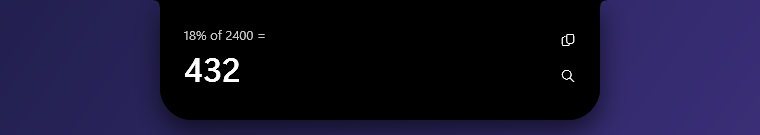
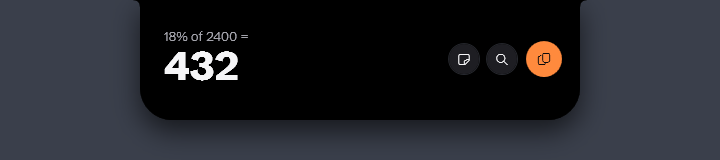
README and screenshots for the current app
Describes the pet's live activities and action circle, the Focus Wall
rail, alarms, Settings, the welcome tour, quiet mode and screen-share
privacy, with new screenshots.

Screenshots use made-up data, through test-pipe-only hooks: a separate
data folder (SHAMMY_DATA_ROOT), a demo song (media-demo) and a demo
place (ambient-weather-at). None of them work without SHAMMY_TEST_PIPE=1.

diff --git a/src/Shammy.App/Playback/MediaService.cs b/src/Shammy.App/Playback/MediaService.cs
@@ -25,7 +25,9 @@ internal sealed class MediaService : IDisposable
 
     public event Action? Changed;
 
-    public bool HasSession => _session is not null && Title.Length > 0;
+    bool _demo;
+
+    public bool HasSession => (_demo || _session is not null) && Title.Length > 0;
     public string Title { get; private set; } = "";
     public string Artist { get; private set; } = "";
     public ImageSource? Art { get; private set; }
@@ -57,8 +59,25 @@ internal sealed class MediaService : IDisposable
         Attach(_manager.GetCurrentSession());
     }
 
+    /// <summary>Test pipe only: a made-up song, so screenshots don't show what's really playing on this PC.</summary>
+    public void ShowDemoForTest(string title, string artist, ImageSource? art)
+    {
+        Attach(null);
+        _demo = true;
+        Title = title;
+        Artist = artist;
+        Art = art;
+        if (art is System.Windows.Media.Imaging.BitmapSource bmp) ArtColor = ArtPalette.Vibrant(bmp);
+        IsPlaying = true;
+        Duration = TimeSpan.FromMinutes(3.5);
+        _position = TimeSpan.FromMinutes(1.2);
+        _positionStamp = DateTimeOffset.Now;
+        Changed?.Invoke();
+    }
+
     void Attach(GlobalSystemMediaTransportControlsSession? session)
     {
+        if (_demo) return;
         if (_session is not null)
         {
             _session.MediaPropertiesChanged -= OnMediaPropertiesChanged;

diff --git a/src/Shammy.App/ShammyHost.cs b/src/Shammy.App/ShammyHost.cs
@@ -742,6 +742,23 @@ internal sealed class ShammyHost : IDisposable
                 return "ok";
             case "fullscreen": _notch.SetFullscreen(arg == "on"); return "ok";
             case "volume": _volume?.Step(arg == "up" ? 1 : arg == "down" ? -1 : 0); return "ok";
+            // "media-demo Title|Artist|cover.png": a made-up song for screenshots; real sessions are ignored until restart.
+            case "media-demo":
+            {
+                var m = arg.Split('|');
+                System.Windows.Media.Imaging.BitmapImage? cover = null;
+                if (m.Length > 2)
+                {
+                    cover = new System.Windows.Media.Imaging.BitmapImage();
+                    cover.BeginInit();
+                    cover.CacheOption = System.Windows.Media.Imaging.BitmapCacheOption.OnLoad;
+                    cover.UriSource = new Uri(m[2]);
+                    cover.EndInit();
+                    cover.Freeze();
+                }
+                _media.ShowDemoForTest(m[0], m.Length > 1 ? m[1] : "", cover);
+                return "ok";
+            }
             case "media":
                 if (arg == "toggle") _media.TogglePlayPause();
                 else if (arg == "next") _media.Next();

diff --git a/src/Shammy.App/Modules/Ambient/WeatherFeature.cs b/src/Shammy.App/Modules/Ambient/WeatherFeature.cs
@@ -174,6 +174,15 @@ internal sealed class WeatherFeature : IDisposable
     }
 
     /// <summary>For the test pipe: refresh now and return a one-line summary.</summary>
+    /// <summary>Test pipe only: "Mumbai|19.07|72.87" sets the place, so screenshots don't show where this PC really is.</summary>
+    public string AtForTest(string arg)
+    {
+        var p = arg.Split('|');
+        var inv = System.Globalization.CultureInfo.InvariantCulture;
+        _data.Location = new GeoLocation(p[0], double.Parse(p[1], inv), double.Parse(p[2], inv), DateTime.UtcNow);
+        return RefreshNowBlocking();
+    }
+
     public string RefreshNowBlocking()
     {
         if (!AmbientNet.IsOnline) return "error: offline";

diff --git a/src/Shammy.App/Modules/Ambient/AmbientModule.cs b/src/Shammy.App/Modules/Ambient/AmbientModule.cs
@@ -52,6 +52,7 @@ internal sealed class AmbientModule : IShammyModule
 
         ctx.AddPipeCommand("ambient-weather", _ => _weather.RefreshNowBlocking());
         ctx.AddPipeCommand("ambient-weather-city", arg => _weather.CityBlocking(arg));
+        ctx.AddPipeCommand("ambient-weather-at", arg => _weather.AtForTest(arg));
         ctx.AddPipeCommand("ambient-ticker-preview", arg => _ticker.PreviewBlocking(arg));
         ctx.AddPipeCommand("ambient-state", _ =>
             $"online={NetworkInterface.GetIsNetworkAvailable()}; weather: {_weather.State}; ticker: {_ticker.State}; pet: {(ctx.Settings.PetEnabled ? "on" : "off")}");

diff --git a/src/Shammy.App/Infrastructure/Paths.cs b/src/Shammy.App/Infrastructure/Paths.cs
@@ -29,6 +29,8 @@ internal static class Paths
     /// </summary>
     static string ResolveRoot()
     {
+        // Test pipe only: a separate data folder, so screenshots and tests never touch (or show) the user's own data.
+        if (CommandServer.IsEnabled && Environment.GetEnvironmentVariable("SHAMMY_DATA_ROOT") is { Length: > 0 } testRoot) return testRoot;
         var root = Path.Combine(Local, "Shammy");
         var old = Path.Combine(Local, "Halo");
         if (Directory.Exists(root) || !Directory.Exists(old) || !LooksLikeOurs(old)) return root;

diff --git a/README.md b/README.md
@@ -23,7 +23,7 @@
 
 Shammy turns the top-centre of your screen into a living notch, like the iPhone's Dynamic Island, made for Windows.
 
-It answers questions with Google AI Mode, Web or Lens right inside the notch, lets you circle anything on screen to search it, and shows your music, timers, calls, downloads and notifications as little live pills. At rest it's Shammy, a little pair of eyes, beside a glance that rotates through what's worth knowing. Rest the pointer on it for a peek; click (or keep resting) and it opens into a rail of cards.
+It answers questions with Google AI Mode, Web or Lens right inside the notch, lets you circle anything on screen to search it, and keeps your music, timers, calls, downloads and notifications in view. Shammy, a little pair of eyes, lives in the notch and changes to match whatever is going on, with a small action button beside the notch when there's something to press. Rest the pointer on it for a peek; click (or keep resting) and it opens into a rail of cards.
 
 It runs on your PC with **no paid AI**:
 - Google does the answering.
@@ -83,7 +83,10 @@ Tap <kbd>Right Alt</kbd> and start typing. Results rank live, keyboard first (<k
 - **Files** straight from the Windows Search index. <kbd>Ctrl</kbd>+<kbd>Enter</kbd> shows the file in its folder. Hidden and developer folders stay out of the way;
 - **Settings, right there:** `brightness` gives a slider, `sound` gives volume, mute and your output devices, `bluetooth` gives an on/off switch, and words like `wifi` or `night light` open the right Settings page;
 - **Music:** `play …` or `… bajao` plays on YouTube Music; pause, next and previous control what's playing;
+- **Your own things:** notes, clipboard items, snippets and every view of the notch;
 - **Google** is always the last row.
+
+With nothing typed, it shows your recent picks and a *Try* row of ideas. Copied text and notes are never suggested on their own.
 
 </td>
 </tr>
@@ -91,7 +94,7 @@ Tap <kbd>Right Alt</kbd> and start typing. Results rank live, keyboard first (<k
 <td valign="top">
 
 ### ⚡ Instant answers
-Sums, unit and currency conversions and time zones never leave your PC: no search, no wait. Exchange rates are free and refreshed daily.
+Sums, unit and currency conversions and time zones never leave your PC: no search, no wait. Exchange rates are free and refreshed daily. Copy an answer with one click, or save it as a note.
 
 </td>
 <td><img src="docs/images/answer.png" alt="Calculator answer"><br><img src="docs/images/convert.png" alt="Unit conversion"></td>
@@ -118,7 +121,7 @@ Other apps' notifications drop out of the notch with a soft ping instead of Wind
 - **click** to open the app;
 - **right-click** to mute that app.
 
-While you share or record your screen, Shammy shows who a notification is from, but not what it says. An ordinary call hides nothing. Muted apps stay out of the Alerts list too.
+While you share your whole screen or record it, Shammy shows who a notification is from, but not what it says. Sharing just a tab or a window hides nothing, because the notch isn't in the picture, and neither does an ordinary call. Muted apps stay out of the Alerts list too.
 
 </td>
 <td><img src="docs/images/notification.png" alt="Notification card"></td>
@@ -127,23 +130,49 @@ While you share or record your screen, Shammy shows who a notification is from, 
 <td valign="top">
 
 ### ⏱ Live activities
-Timers, stopwatches, Pomodoro and focus sessions, meeting mic mute, volume and brightness, charging, Bluetooth, downloads and updates all live in the notch as small pills. When two things happen at once, one splits off into a bubble.
+Shammy stays in the middle of the notch and dresses for the occasion, with the details on either side:
+- **a call:** a headset, the time on the call, and a mic button;
+- **music:** happy eyes, the song, and play/pause;
+- **a timer:** a little stopwatch, the time left, and pause;
+- **recording your screen,** a **download,** **charging** or your **earbuds' battery**.
+
+When there's something to press, a small **action circle** sits beside the notch, so you don't have to open anything. Pomodoro and focus sessions, volume and brightness, Bluetooth and updates live here too.
 
 </td>
-<td><img src="docs/images/timer.png" alt="Timer"><br><img src="docs/images/meeting.png" alt="Meeting mic"><br><img src="docs/images/hud-volume.png" alt="Volume"><br><img src="docs/images/charging.png" alt="Charging"><br><img src="docs/images/bluetooth.png" alt="Bluetooth"><br><img src="docs/images/download.png" alt="Download finished"><br><img src="docs/images/update-ready.png" alt="Update ready"></td>
+<td><img src="docs/images/pet-call.png" alt="Shammy on a call"><br><img src="docs/images/pet-music.png" alt="Shammy with music playing"><br><img src="docs/images/pet-timer.png" alt="Shammy with a timer"><br><img src="docs/images/pet-rec.png" alt="Shammy while recording"><br><img src="docs/images/pet-download.png" alt="Shammy with a download"><br><img src="docs/images/pet-charging.png" alt="Shammy while charging"><br><img src="docs/images/pet-earbuds.png" alt="Shammy showing earbud battery"></td>
 </tr>
 <tr>
 <td valign="top">
 
 ### 🗂 Open it for the cards
-Open the notch and you get a **rail of cards** for what's going on now: Music, Calendar, Timers, Weather, System. Above them sit Shammy's eyes (home), a **chip** for every part of Shammy and the search pill:
-- Clipboard, Shelf, Notes, Alerts, System, Mirror, Calendar, Timers, Music, Weather, Snippets;
-- chips that don't fit are listed under **More**.
+Open the notch and you get a **rail of tiles** for what's going on now: music with its real album cover, weather, your calendar, timers, notes, battery. The notch fits itself to the tiles it has. The tile you're on grows and shows its controls, and the others dim back. Above them sit Shammy (home), a label for every part of Shammy and the search pill:
+- Clipboard, Shelf, Notes, Alerts, System, Mirror, Calendar, Snippets, Settings, Timers, Music, Weather, Alarms;
+- labels that don't fit are listed under **More**.
 
-Click a card or a chip and it opens in place into a bigger view: synced lyrics, today's timeline, your clipboard, notes you can type straight into. **Back** or <kbd>Esc</kbd> returns to the cards.
+Click a tile or a label and it opens in place into a bigger view: synced lyrics, the week's forecast, today's timeline, your clipboard, notes you can type straight into. **Back** or <kbd>Esc</kbd> returns to the tiles.
 
 </td>
-<td><img src="docs/images/expanded.png" alt="Expanded notch"></td>
+<td><img src="docs/images/expanded.png" alt="The open notch with the music tile in focus"><br><img src="docs/images/detail-music.png" alt="Music view"><br><img src="docs/images/detail-weather.png" alt="Weather view"></td>
+</tr>
+<tr>
+<td valign="top">
+
+### ⏰ Real alarms
+Say *"wake me up at 6:30 every weekday"*, or add one yourself in the Alarms view. Pick the days, label it, and set how long a snooze lasts. An alarm rings until you stop or snooze it, swells up gently from quiet, and shows over fullscreen apps. You can turn off either of those last two.
+
+</td>
+<td><img src="docs/images/alarms.png" alt="Alarms view"></td>
+</tr>
+<tr>
+<td valign="top">
+
+### 🎛 Make it yours
+**Settings** opens right in the notch and saves as you go, in seven sections: General, Notch & pet, Voice, Notifications, Time & units, Clipboard & privacy, and Calendar. Choose Shammy's eye style and colour, how quickly the notch opens, your microphone, 12 or 24-hour time, and which features run at all.
+
+New here? A **welcome tour** takes about thirty seconds, and that's where you can give the pet its own name. Say or type *"help"* to see it again.
+
+</td>
+<td><img src="docs/images/settings.png" alt="Settings"><br><img src="docs/images/tour.png" alt="Welcome tour"></td>
 </tr>
 <tr>
 <td valign="top">
@@ -172,16 +201,18 @@ Like AirDrop, over your own Wi-Fi. Scan the QR code and the phone downloads the 
   - scroll over the notch for volume, swipe sideways to skip.
 - 📋 **Clipboard:**
   - history of what you copy, with pinning and search; clearing it can be undone for a few seconds;
-  - a screenshot catcher you can drag into any app;
+  - a screenshot catcher you can drag into any app, with Copy text, Search with Lens, Send to phone and Add to shelf;
+  - save any copied text as a note;
   - Wi-Fi passwords from QR codes stay out of Windows' clipboard history.
 - ✍ **Snippets:** type `;date`, `;time`, `;shrug` or your own triggers in any app and they expand.
 - 🚀 **Launcher:** *"open spotify"*, *"open github.com"*, *"open downloads"*.
-- 📅 **Calendar:** paste your Google Calendar's secret iCal address once (no sign-in): the week and your next meeting on a card, today's timeline, a glance, and a *Join* pill five minutes before a call.
+- 📅 **Calendar:** paste your Google Calendar's secret iCal address once (no sign-in): the week and your next meeting on a card, today's timeline, a glance, and a *Join* pill five minutes before a call. Say *"remind me 5 minutes before standup"* for a meeting on your calendar.
 - 🪞 **Mirror:** a quick look in your webcam before a call. The camera runs only while the mirror is open on screen.
 - 🌤 **Ambient:** weather, and a cricket, stocks or crypto ticker in the resting glance.
 - 🖥 **System:**
   - a CPU, memory and battery card, with your Bluetooth headsets' battery;
-  - alerts when an app hogs the CPU or the battery drains fast.
+  - alerts when an app hogs the CPU or the battery drains fast, and when your earbuds run low.
+- 🤫 **Quiet mode:** the notch keeps itself quiet during a calendar meeting and a focus session.
 - 🙈 **Fullscreen:** Shammy hides itself for fullscreen games, videos and presentations, and never covers a top taskbar. Only a finished timer or a due alarm or reminder shows over them, without taking focus.
 
 ## Install
@@ -189,7 +220,7 @@ Like AirDrop, over your own Wi-Fi. Scan the QR code and the phone downloads the 
 1. Download **`Shammy-Setup.exe`** from the [latest release](https://github.com/Roushan-2104/Shammy-Notch-For-Windows/releases/latest) and run it.
    - It installs for your account only, with no admin prompt.
    - .NET is included.
-2. On first run, Shammy asks once whether it should **start with Windows**. You can change this later in the tray menu.
+2. On first run, Shammy asks once whether it should **start with Windows**. You can change this later in the tray menu. The welcome tour follows.
 
 - **Updates are automatic.** Shammy downloads new versions in the background, usually just a few MB, and the notch offers *Update ready · click to restart*. If you ignore it, the update installs when Shammy next quits.
 - **No installer?** `Shammy-Portable.zip` runs from any folder and updates itself the same way.
@@ -215,6 +246,7 @@ Like AirDrop, over your own Wi-Fi. Scan the QR code and the phone downloads the 
 | `lyrics` | Synced lyrics, in the Music card |
 | `timer 25m tea` · `stopwatch` · `pomodoro` · `focus 45m` | A live countdown in the notch |
 | `remind me at 6pm to call mom` · `set an alarm for 7 am` · `kal subah 7 baje ka alarm laga do` · `parso subah 9 baje yaad dilana` · `note: buy milk` | A reminder card when it's due · the Notes card |
+| `wake me up at 6:30 every weekday` · `alarms` · `snooze` | A repeating alarm · the Alarms view · Snoozes one that's ringing |
 | `5 ft in cm` · `100 usd to inr` · `1.2 lakh in dollars` · `10 lakh + 5 lakh` · `5pm ist in pst` · `time in tokyo` | Instant answers (the palette shows the converted amount as you type) |
 | `translate good morning to hindi` | Google Translate, in the notch |
 | `calendar` · `my meetings` · `what's next` | Your next meeting · the Calendar card |
@@ -222,6 +254,7 @@ Like AirDrop, over your own Wi-Fi. Scan the QR code and the phone downloads the 
 | `open spotify` · `open vs code` · `open google crome` · `open github.com` · `open downloads` | App, site or folder launcher (nicknames and one typo per word are fine) |
 | `snippet ;sig Best, Roushan` · `snippets` | Text expansion in any app |
 | `weather` · `weather in mumbai tomorrow` · `pune ka mausam` · `ticker cricket` · `ticker stocks RELIANCE.NS` · `pet on` | Weather card · ticker glance · Shammy's eyes on or off |
+| `help` · `tour` | The welcome tour |
 | `volume 50` · `brightness to 70%` · `volume up` · `mute` | Sets the level directly |
 | `mute mic` · `cpu` · `clipboard` · `clear clipboard` · `send to phone` · `take a screenshot` | Mic toggle · System card · Clipboard card · Clears it (with Undo) · QR transfer · Screenshot |
 | *"…only from Reddit"*, *"…from the past week"*, *"…no junk"*, *"…from the docs"* | Search filters, spoken |
@@ -237,7 +270,7 @@ Like AirDrop, over your own Wi-Fi. Scan the QR code and the phone downloads the 
   - the calendar is read only from Google, at the secret address you pasted;
   - the notch shows a "Sent to Google" badge whenever an image is uploaded to Lens.
 - **The results browser:** it can only open web pages, so pages can't launch apps or files.
-- **Notifications:** their text is hidden, in pop-ups and in the Alerts list, only while you share or record your screen (a normal call doesn't hide anything). The list shows it again when sharing ends.
+- **Sharing your screen:** while you share your whole screen or record it, message text is hidden in pop-ups and in the Alerts list, and so are meeting titles, reminders, notes and clipboard text. A normal call, or sharing a single tab or window, doesn't hide anything. It all comes back when sharing ends. A setting can hide message text all the time.
 - **Camera:** the mirror's camera is on only while the mirror is open on screen, and stops when it closes or the PC locks.
 - **Your data:**
   - clipboard history, notes, snippets, your calendar's address and the song titles voice remembers are encrypted with Windows DPAPI under your account. Song memory can be cleared or turned off from the tray;
@@ -259,6 +292,7 @@ Like AirDrop, over your own Wi-Fi. Scan the QR code and the phone downloads the 
 - **Brightness keys:** Shammy shows its HUD, but Windows' own brightness pop-up can't be suppressed, because the firmware handles those keys.
 - **Notifications** are read when Windows' notification store changes. Clicking one opens the app, not the exact chat: Windows doesn't let other apps trigger a toast's own buttons.
 - **Exclusive-fullscreen games** (not borderless or windowed) can draw over a timer or alarm that breaks through fullscreen; you still hear its chime.
+- **Spotting a screen share:** Shammy recognises it from Windows' own signals and from the sharing bar Chrome, Edge, Zoom and Teams show. An app that shows neither isn't noticed, so nothing gets hidden.
 - **The Copilot key** replaces Windows' Copilot/Search action while Shammy runs.
 - **First launch** shows the notch about 3 s after start (WPF's one-time theme load).
 
@@ -301,7 +335,7 @@ src/Shammy.Core      pure logic, unit tested: springs, activity priority, parser
                    reminders, snippets, music), calculator, selection analysis, phone-transfer server
 src/Shammy.App       WPF app
   Shell/           the notch window: state machine, spring animation, shape, colour edge
-  Views/           resting pet and glance, peek, compact pills, the open notch's cards, search bar, results
+  Views/           resting pet and glance, peek, the pet's live activities, the open notch's tiles, search bar, results
   Search/          hotkeys, screen freeze, OCR, microphone, Whisper
   Modules/         self-contained features (music, calendar, productivity, clipboard, mirror, launcher,
                    snippets, ambient, meeting/system, phone send, drop actions, screenshots, selection tools)
